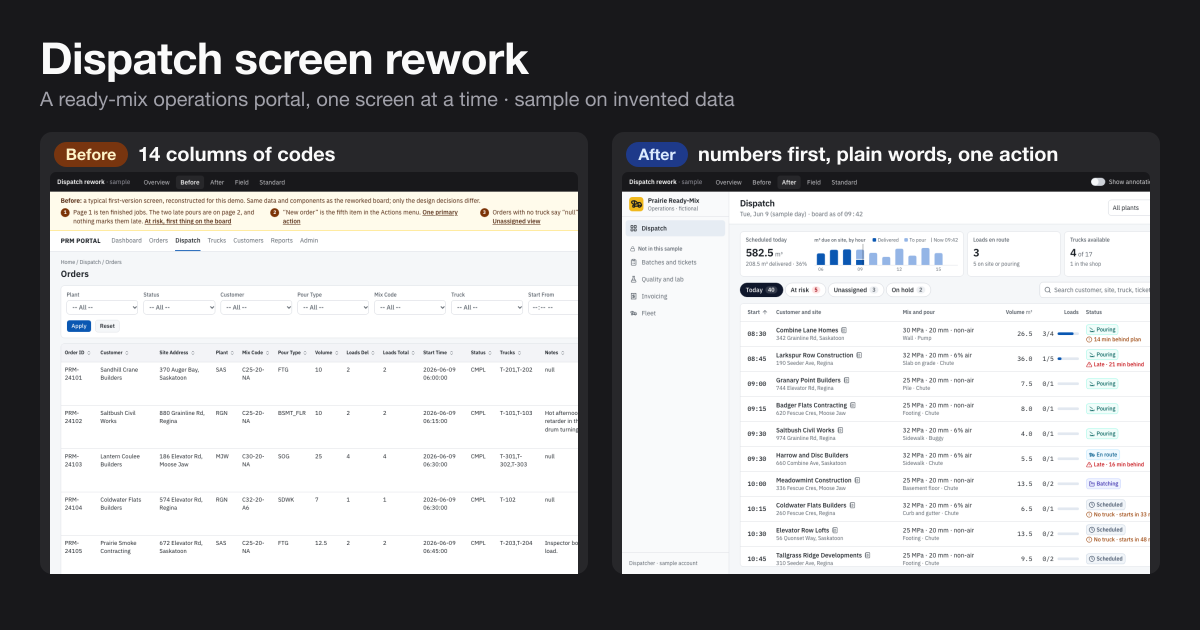
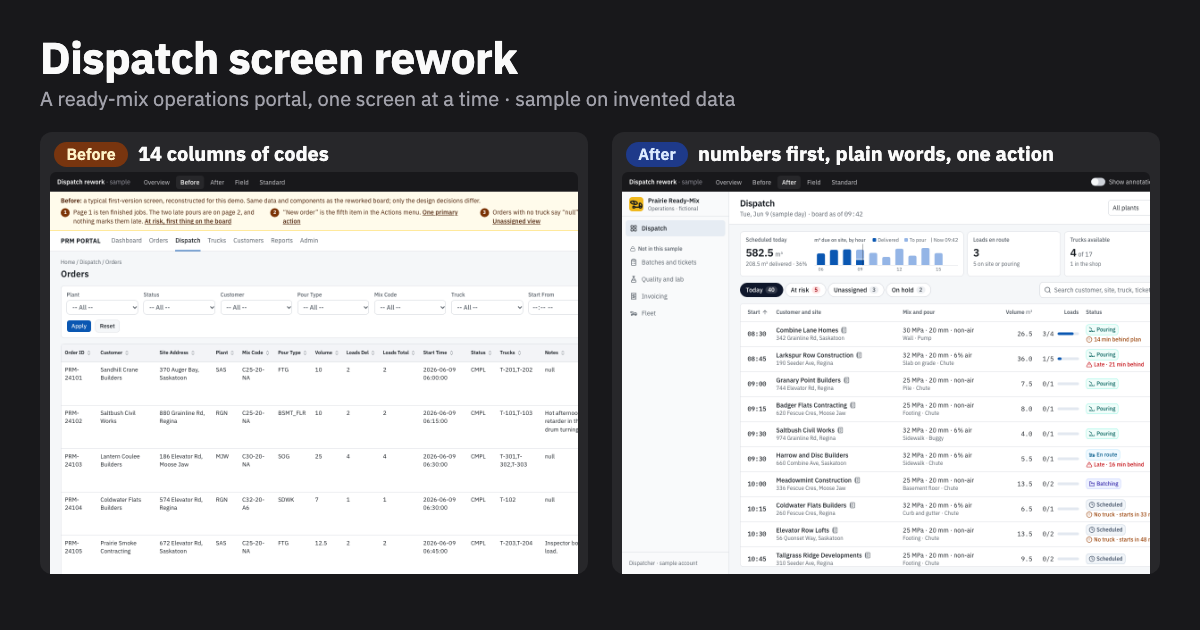
Set the link card's text in IBM Plex Sans
Inkscape fell back to Helvetica Neue because Plex isn't installed. design/og_render.mjs draws the card's SVG in Playwright's Chromium with the Plex file the Next build already put in .next/static/media, so the card matches the site and nothing is downloaded. The card also shows the new After screenshot.

diff --git a/design/og_image.py b/design/og_image.py
@@ -2,12 +2,10 @@
 """The link card (Open Graph image): the before and after screenshots side by side on
 a dark card under the title, 1200 x 630.
 
-Writes design/out/og.svg; build.sh exports it to src/app/opengraph-image.png. The
-screenshots are linked, not copied: public/shots/before.png and after.png, the same
-images the overview shows. Retake them with design/shots.mjs when the board changes.
-
-The text asks for IBM Plex Sans, the site's face, and falls back to Helvetica Neue
-or Arial where Plex is not installed. Standard library only.
+Writes design/out/og.svg; design/og_render.mjs draws it into src/app/opengraph-image.png
+in Chromium, with the IBM Plex Sans file from the site's build. The screenshots are
+linked, not copied: public/shots/before.png and after.png, the same images the overview
+shows. Retake them with design/shots.mjs when the board changes. Standard library only.
 """
 
 from pathlib import Path
